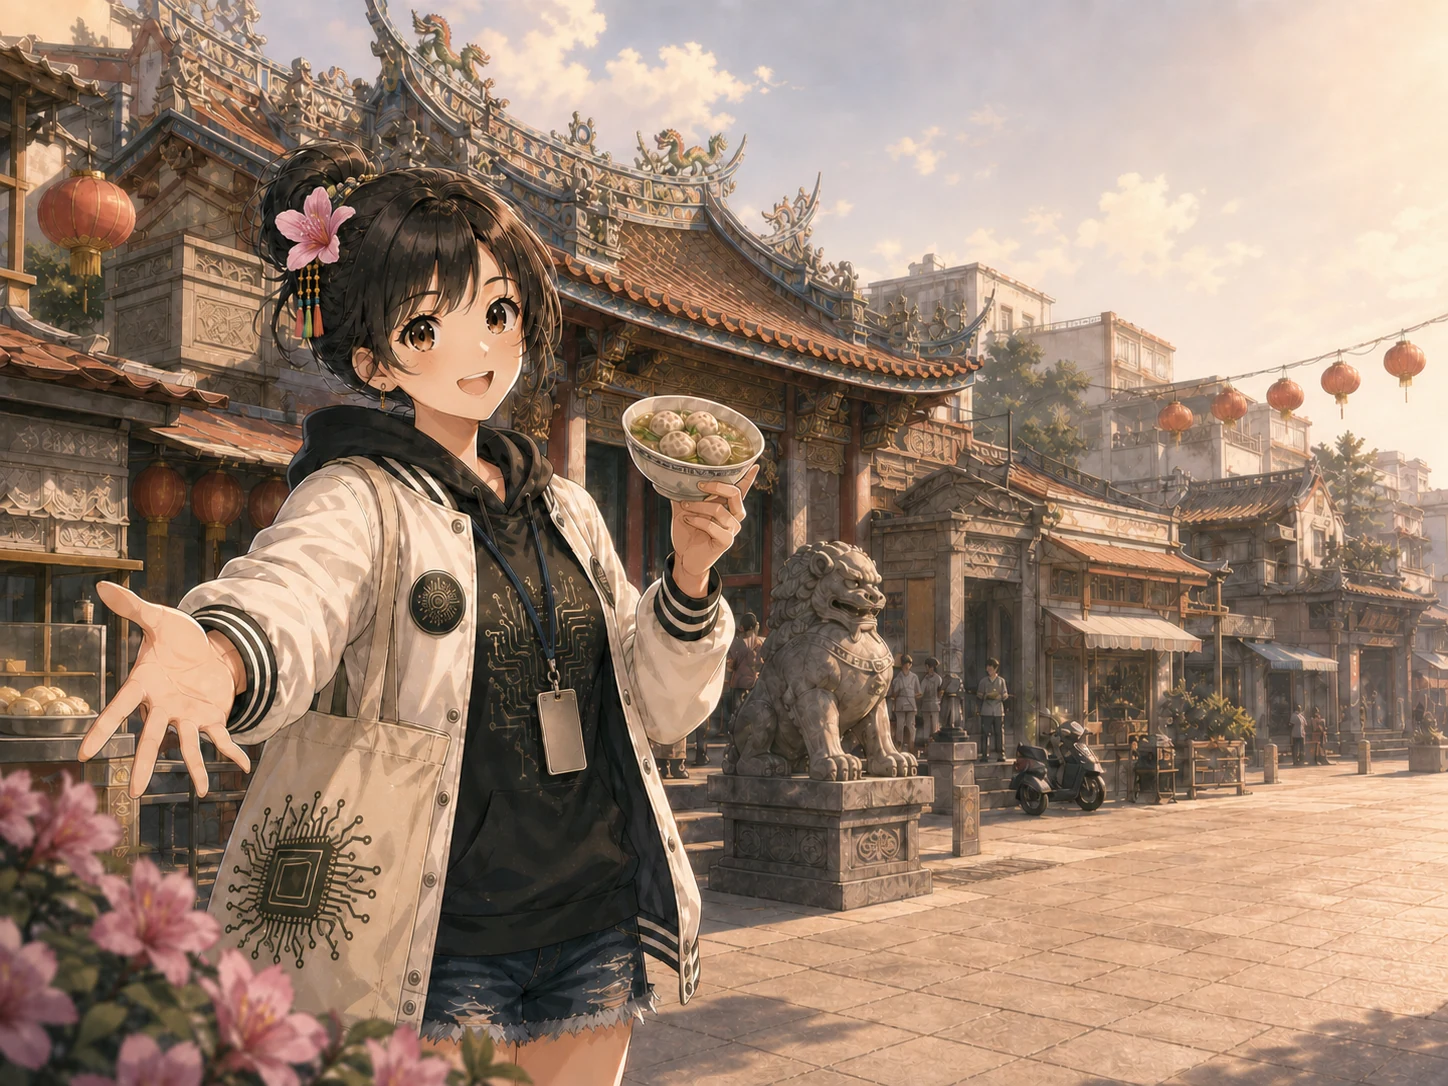
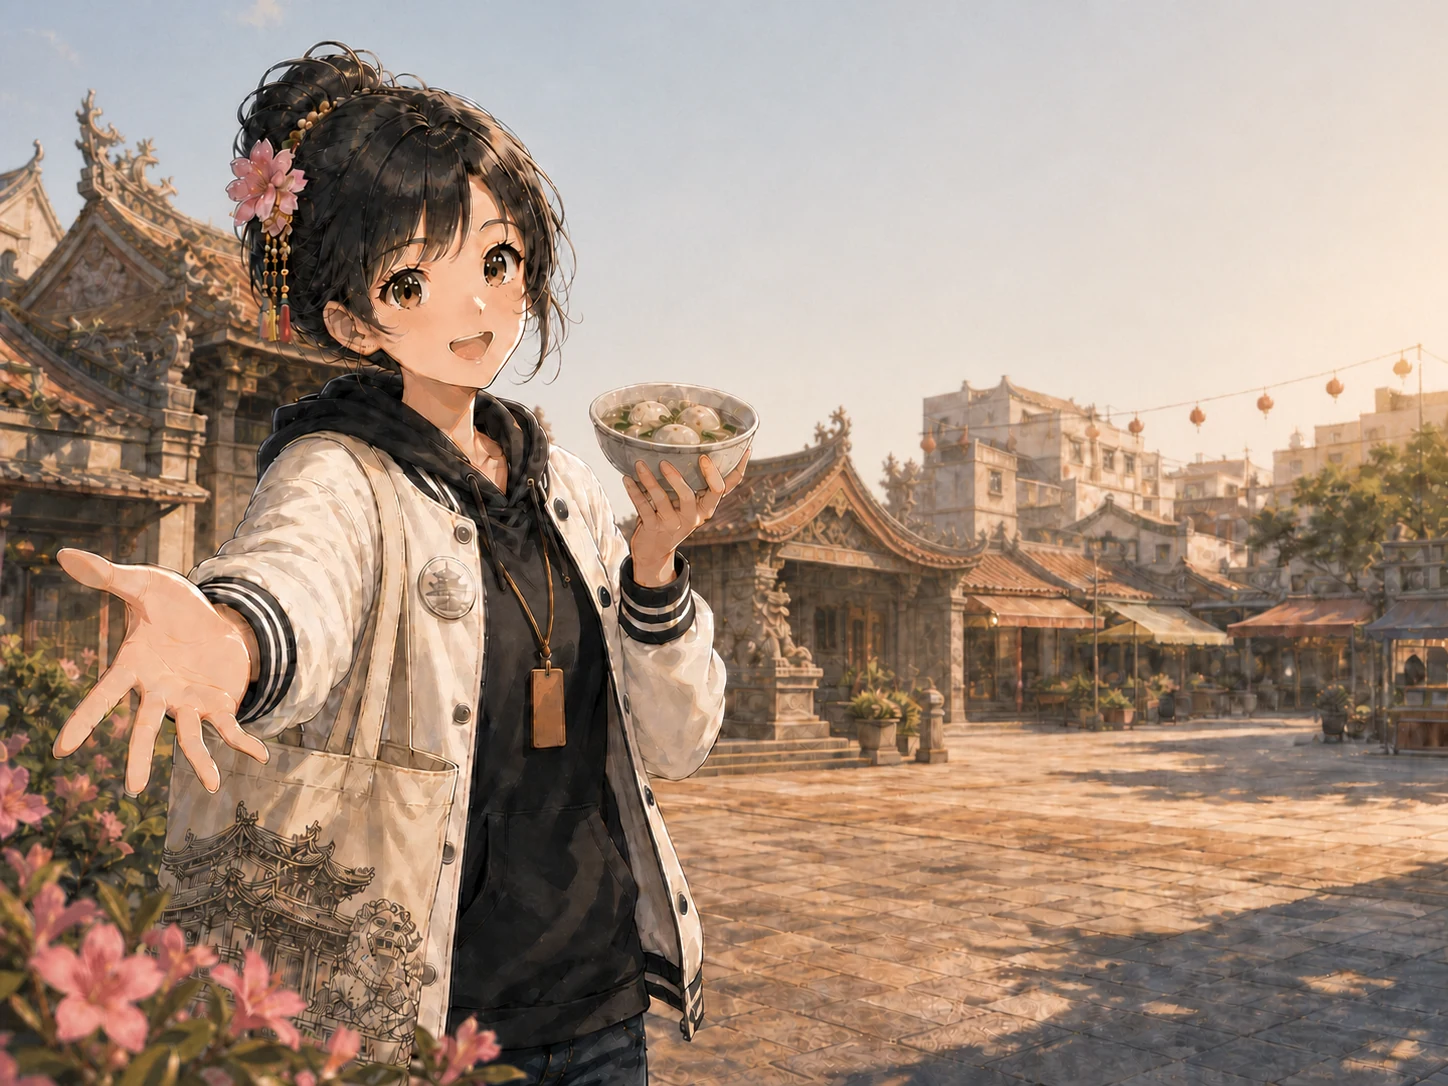
新竹市的印花改成城隍廟線描，並接上一直沒被讀到的 tote_print (#6)
新竹市的帽T、徽章、提袋全是電路板與 IC 晶片圖案。除了難看，它還違反硬規則六：
那對回的是科學園區，而新竹市的 landmarks 是十八尖山、南寮漁港、新竹都城隍廟，
沒有科學園區。這條規則當初刪掉了台北 101 耳環、新北金髮圈、台中彩色髮夾，
卻漏掉了衣物與提袋上的印花。

改成帽T 素面、徽章與提袋都用城隍廟（hero_landmark）的燕尾脊與石獅線描，
與高雄的旗津燈塔提袋同一套做法。

順帶修掉一個死欄位：scene.tote_print 原本只有 --fix-tote-print 讀得到，
build() 根本沒用它——所以高雄那筆設了也等於白設，正式生成時提袋照樣自由發揮。
現在 build() 會讀。（插進去時切斷了原本的隱式字串串接，補了 + 才對。）

但不把 22 個縣市的印花全部寫死。實際看過 16 張提袋，15 張自由發揮的都好看
而且對得回資料（台北 101 線描、彰化廟宇、台南赤崁樓、台東八拱橋、連江聚落、
屏東珊瑚，其餘多是該縣市的市花），只有新竹市那張是壞的。全部寫死等於把 15 張
好的洗掉，那是為了統一而統一。所以 tote_print 維持成選用覆寫，目前只有
高雄與新竹市有。

驗證：五個候選的提袋都是完整的單色線描，沒有偽字、沒有空白區塊；
量測通過（縣市名 0.83、文字塊 0.79、右側 0.0372）；25 筆 --check 全過。

diff --git a/tools/build_prompt.py b/tools/build_prompt.py
@@ -198,7 +198,11 @@ def build(c):
         f"face and build. Dress her instead in: {s['outfit']}. "
         + costume_block(c)
         + "Keep the canvas tote bag. "
-        f"ON HER: {s.get('accessories', '')}. These small details matter — she should look "
+        # tote_print 原本只有 --fix-tote-print 讀得到，build() 沒用它——
+        # 等於正式生成時提袋印花一律由模型自由發揮。新竹市那次就發明出一張
+        # 像剪貼素材的 IC 晶片示意圖，而且對不回任何一筆 landmarks。
+        + (f"THE TOTE'S PRINT: {s['tote_print']}. " if s.get("tote_print") else "")
+        + f"ON HER: {s.get('accessories', '')}. These small details matter — she should look "
         "lived-in and specific, not stripped down. "
         "If the outfit includes a hat, her hair is fully contained under it, never poking "
         "through the crown. "

diff --git a/AGENTS.md b/AGENTS.md
@@ -184,6 +184,26 @@ python3 tools/build_prompt.py 高雄市
 
 資料錯要回頭改 `data/counties.json`，不能繞過腳本。
 
+## 印花也要對得回資料，但不要為了統一而全部寫死
+
+硬規則六（配件必須對得回 `symbols` 或 `scene.landmarks`）當初刪掉了台北 101 耳環、
+新北金髮圈、台中彩色髮夾，卻**漏掉了衣物與提袋上的印花**。
+
+新竹市的帽T、徽章、提袋全是電路板與 IC 晶片圖案——那對回的是科學園區，
+而新竹市的 `landmarks` 是十八尖山、南寮漁港、新竹都城隍廟，沒有科學園區。
+畫出來也像剪貼素材。已改成城隍廟的燕尾脊與石獅線描。
+
+**但不要因此把 22 個縣市的印花全部寫死。** 實際看過 16 張提袋，
+15 張自由發揮的都好看而且對得回資料（台北 101 線描、彰化廟宇、台南赤崁樓、
+台東八拱橋、連江聚落、屏東珊瑚、其餘多是該縣市的市花），只有新竹市那張是壞的。
+全部寫死等於把 15 張好的洗掉，那是為了統一而統一。
+
+所以 `scene.tote_print` 是**選用覆寫**：不設就讓模型自由發揮，
+畫壞或對不回資料的才寫死。目前只有高雄與新竹市有。
+
+順帶修掉一個死欄位：`tote_print` 原本**只有 `--fix-tote-print` 讀得到，`build()` 沒用它**，
+所以高雄那筆設了也是白設，正式生成時提袋照樣自由發揮。現在 `build()` 會讀。
+
 ## 不要畫任何真實品牌的商標與包裝
 
 丹丹漢堡、鄭老牌木瓜牛奶這類都是註冊商標，畫面上只出現**無品牌**的食物本身，
